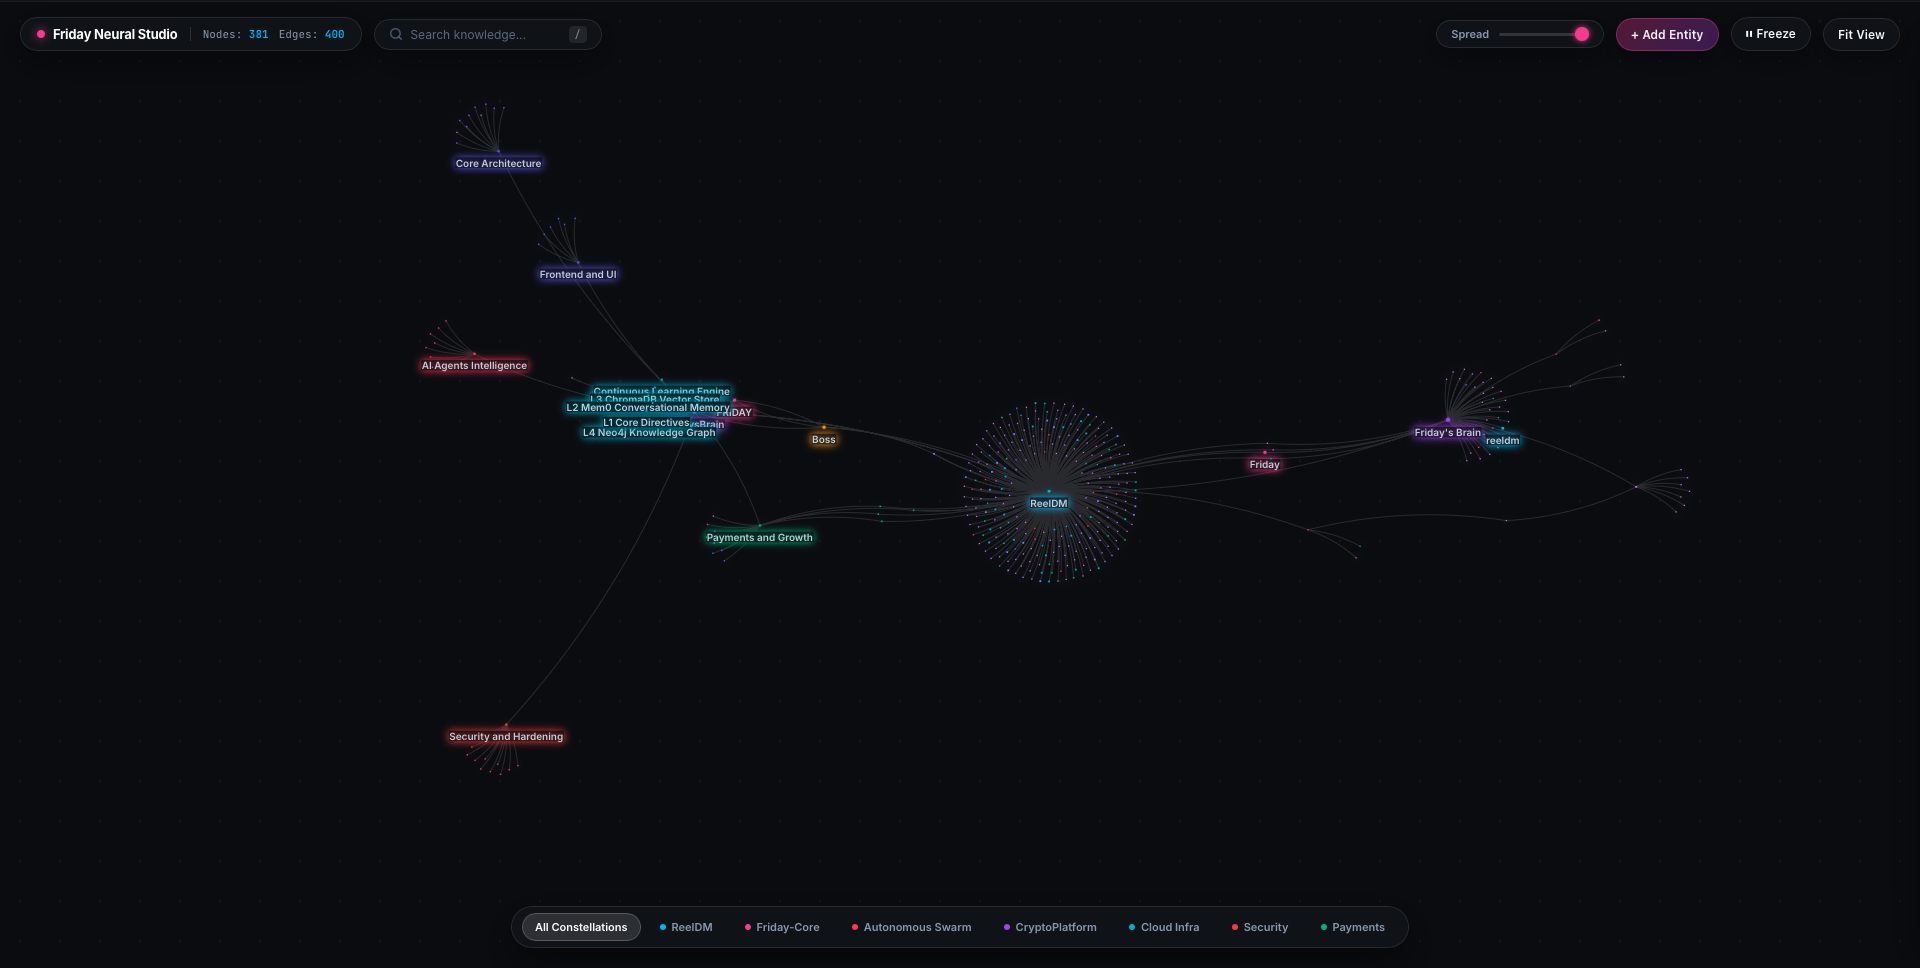
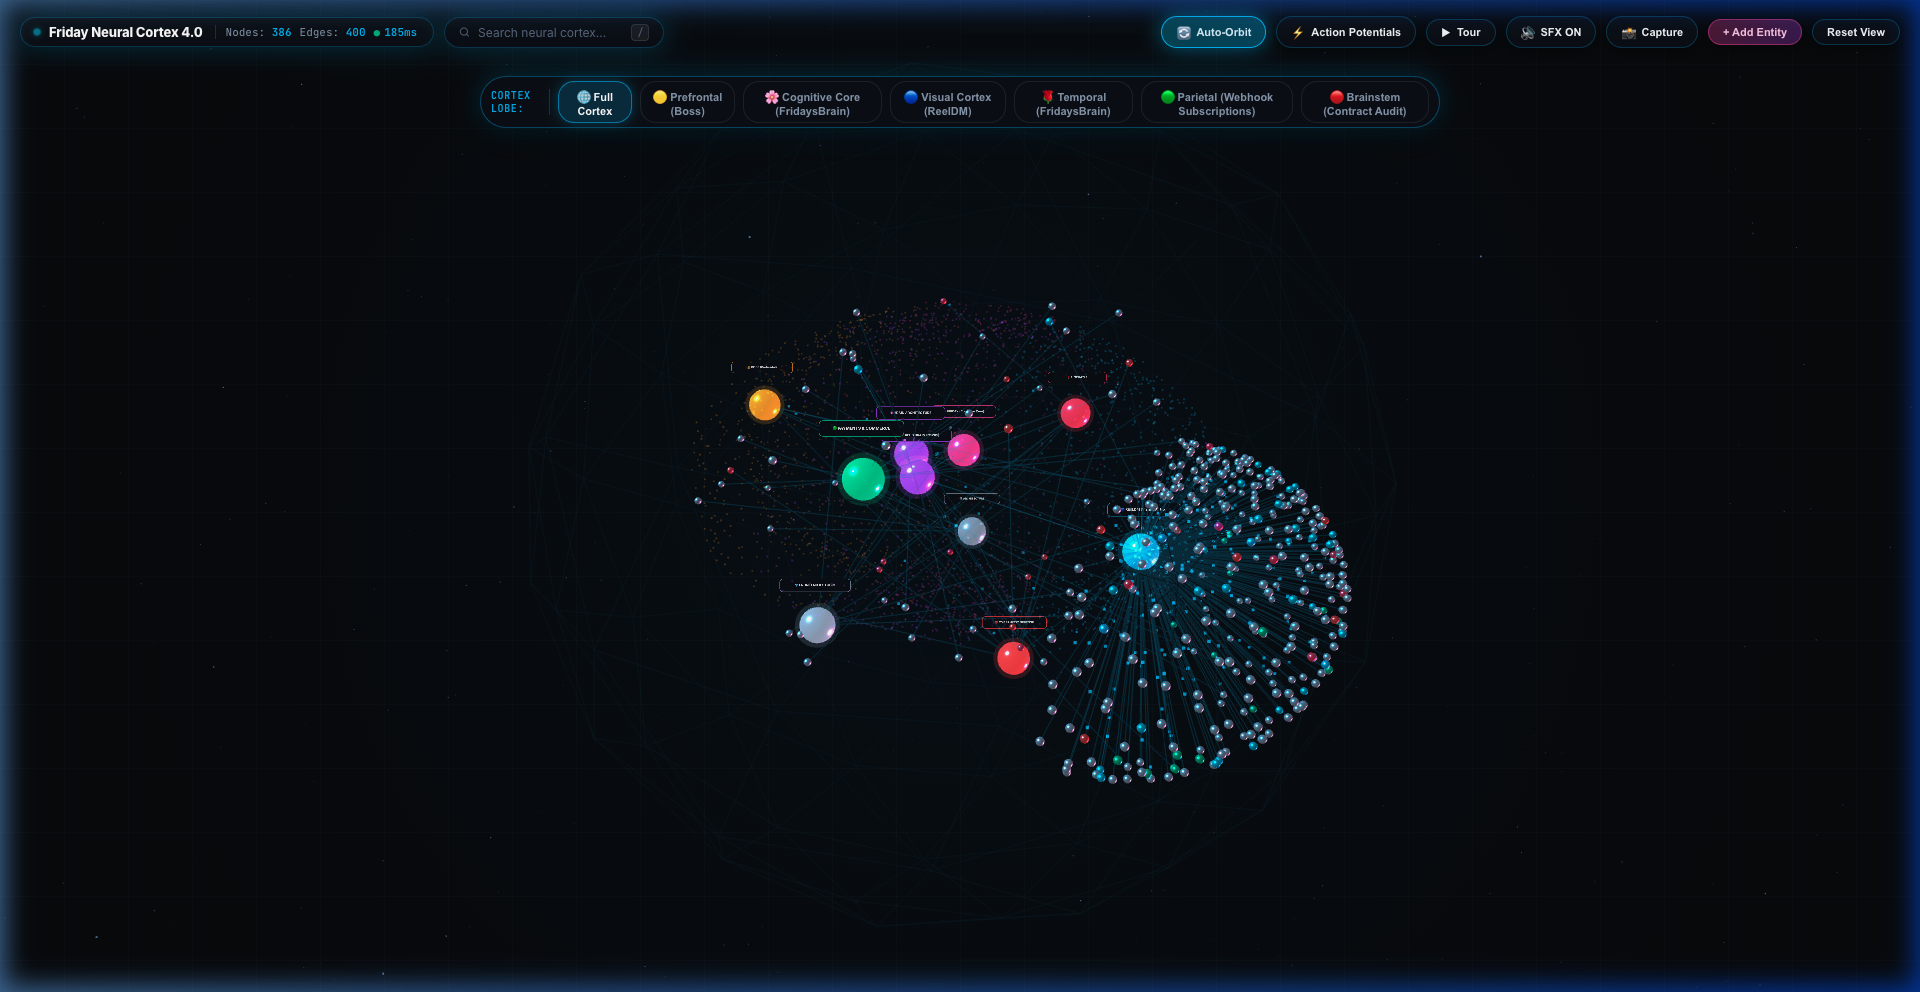
docs(readme): update neural studio to 3D Synthetic Neural Cortex Holosphere 4.0 hero asset

diff --git a/README.md b/README.md
@@ -52,7 +52,7 @@
 <img src="docs/assets/neural_studio.png" alt="Friday Neural Studio — Live Knowledge Graph UI" width="100%" style="border-radius: 8px; border: 1px solid #1e293b;" />
 
 <br>
-<sub><i>Live Neural Studio — Obsidian-grade knowledge graph visualizer mapping real AI cognitive memory constellations.</i></sub>
+<sub><i>Live Neural Studio (Holosphere 4.0) — 3D Synthetic Neural Cortex mapping cognitive memory constellations across anatomical cybernetic lobes with active synaptic action potentials.</i></sub>
 
 <br><br>
 
@@ -483,26 +483,26 @@ No YAML. No manual tagging. Just store memories, and your knowledge graph builds
 
 ---
 
-### Neural Studio — Graph Visualization UI
+### Neural Studio — 3D Synthetic Neural Cortex (Holosphere 4.0)
 
 <br>
 
 <p align="center">
-  <img src="docs/assets/neural_studio.png" alt="Live Neural Studio Knowledge Graph" width="100%" style="border-radius: 10px; border: 1px solid #1e293b;" />
+  <img src="docs/assets/neural_studio.png" alt="Friday Synthetic Neural Cortex 4.0" width="100%" style="border-radius: 10px; border: 1px solid #1e293b;" />
 </p>
 
-A browser-based visual explorer for your AI's knowledge — built with the same graph engine  
-that powers [Obsidian](https://obsidian.md)'s graph view.
+A state-of-the-art WebGL / Three.js 3D cognitive brain studio — mapping your AI's knowledge graph onto an anatomical volumetric human cerebral cortex with real-time synaptic action potentials.
 
 **What you can do:**
-- 🌌 Explore your entire knowledge base as a living constellation
-- 🔍 Full-text search — camera auto-follows, inspector slides open
-- 🎛 **Spread slider** (1–10) — breathe space into dense graphs in real-time
-- 🏷 **Project filter chips** — isolate WebApp vs Auth vs Payments constellations
-- 🖱 **Click any node** → right-side inspector with facts, edges, actions
-- ➕ Add / ✏ Rename / 🗑 Delete / 🔗 Connect — full CRUD via UI
-- ❄ **Freeze** physics to lock a layout, **Fit View** to reset camera
-- ⚡ Live auto-refresh as new memories arrive
+- 🧠 **Volumetric 3D Cerebral Cortex** — 4,000+ bioluminescent vertices shaped into bilateral hemispheres with gyri and sulci folds
+- ⚡ **Active Synaptic Action Potentials** — live photon pulses travel along synaptic arcs simulating real cognitive action potentials
+- 🌐 **Dynamic Anatomical Lobe Bar** — fly between Prefrontal (Executive directives), Cognitive Core, Visual Cortex (Ingress domain), Temporal (AI swarms), Parietal (Commerce), and Brainstem (Security)
+- 🪐 **Luminous Celestial Planet Orbs** — clean, high-fidelity glowing spheres with soft atmospheres representing major knowledge hubs
+- 🖱 **Cybernetic Inspector Drawer** — click any entity to inspect connected synapses, live versioned facts, and retrieve deep semantic chunks directly from ChromaDB L3 Vector Store
+- 🔍 **Full-Text Cortex Search** — camera auto-glides to focused entities with smooth damping flight curves
+- 🎵 **Procedural Web Audio SFX** — subtle sci-fi clicks, hums, and warp chimes synthesizing the neural environment
+- 📸 **4K Hologram Snapshot** — export high-resolution diagrams directly from the WebGL buffer
+- ➕ Full CRUD operations: Create, Connect, Rename, and Delete entities directly from the 3D canvas
 
 ---
 
